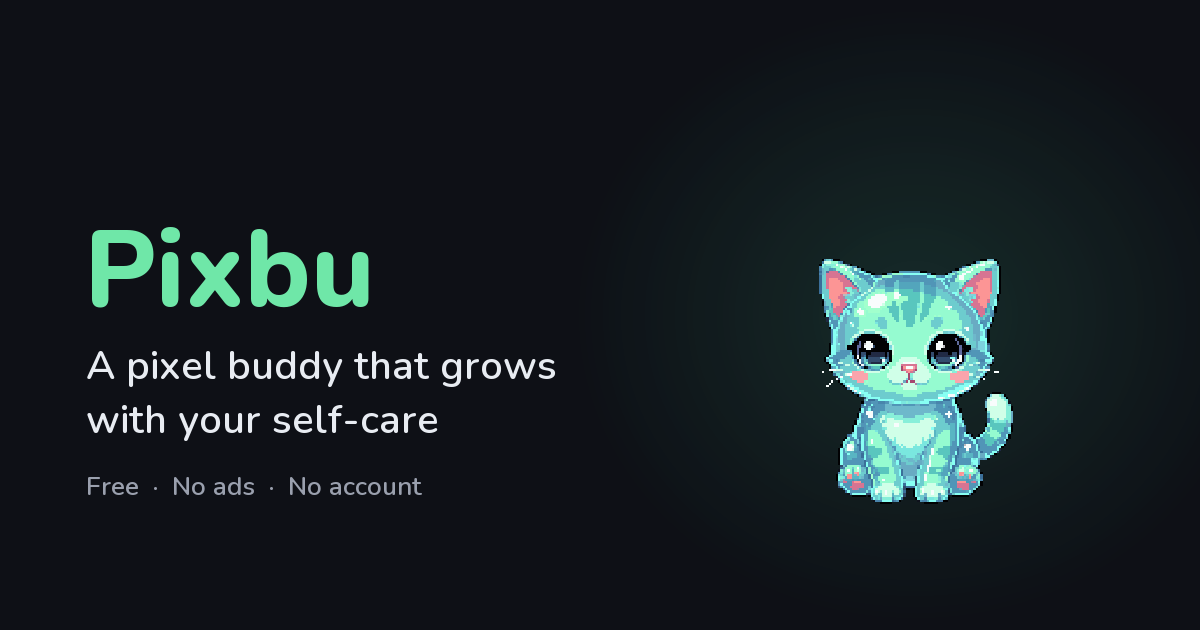
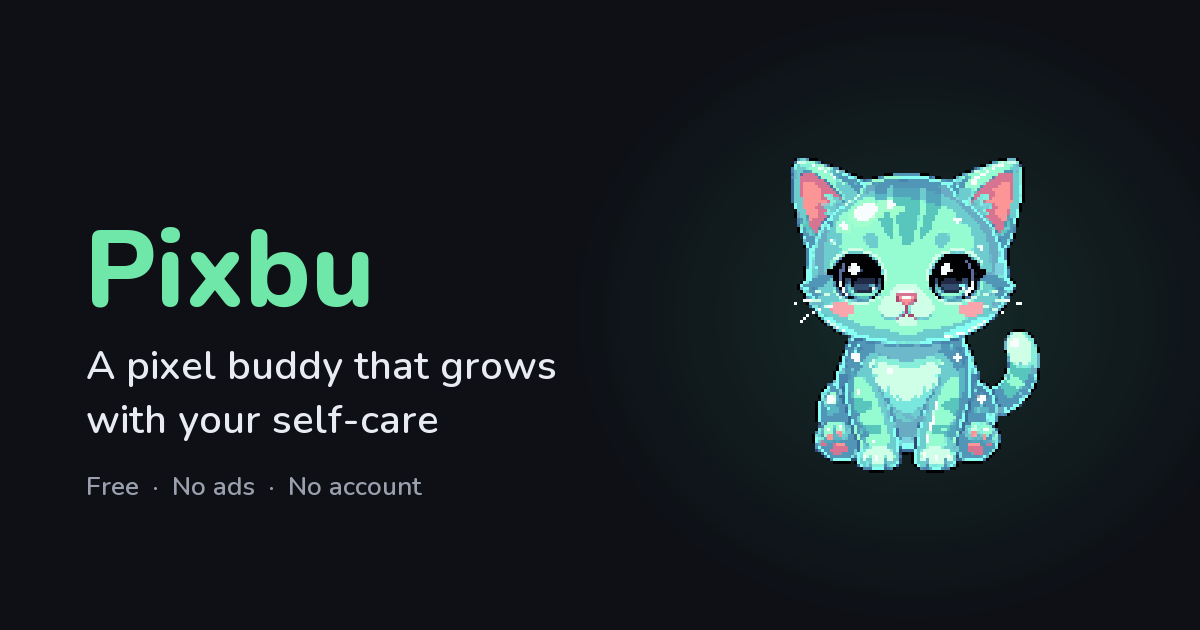
pixbu: 11 Eyl'de hazirlanan dort duzeltme CANLIYA alindi
Bu dort duzeltme 11 Eyl'de kaynak kopyada (enessevinc25/pixbu -> site/pixbu/)
yapilmis ama canliya tasinamamisti -- "site deposu erisimi yok" diye. O iddia
hic olculmemis: ayni GitHub jetonu bu depoda da push=True admin=True veriyor.

1) index.html -- .demo kuralina height:auto
   Demo videosu telefonda ~530 px siyah bosluk aciyordu (yukseklik
   belirtilmediginde tarayici kendi oranini koyuyor).

2) privacy.html + terms.html -- "son guncelleme" damgasi kendi sozunu
   tutmuyordu. Damga son ESASLI degisikligi gostermeli; gizlilik 18 Agu,
   sartlar 26 Tem diyordu, oysa son esasli degisiklik 26 Agu 2026
   (a66068362, uygulama-ici tam silme beyani). Alti dilde duzeltildi.

3) AYNI DOSYALARDA IKI AD HATASI -- uygulamanin ARB'sinden okunarak:
   · fr: "Parametres" -> "Reglages"  (app_fr.arb settingsTitle;
     uygulamada "Parametres" diye bir ekran YOK)
   · es: "Exportar copia de seguridad" -> "Exportar copia"
     (app_es.arb exportTitle)
   Kural: kullaniciya gorunen her yerde ekran/dugme adi ARB'den OKUNUR,
   cevrilmez. Bekci: app/test/hukuki_sayfa_ad_bekcisi_test.dart

4) img/og.png -- paylasim kartindaki yaratik kirpmasi
   Banner'da bulunan ayni kusur: sprite'in tum tuvali olcekleniyordu,
   kedi tuvalin %45x%57'sini dolduruyor. Kutu 194x243 -> 249x312 ve
   merkez halesiyle hizalandi (y 380 -> 313). Gozle dogrulandi.

YON DOGRULANDI: dort kaynak dosyanin dordu de 11 Eyl tarihli, canlidakiler
9-10 Eyl -- yani geriletme degil ilerletme. Canlida olup kaynakta olmayan
[…]

Changed region(s): [[0.6475, 0.2413, 0.8633, 0.8143]]

diff --git a/pixbu/terms.html b/pixbu/terms.html
@@ -1,3 +1,4 @@
+<!-- ⚠ 11 Eyl 2026: "son güncelleme" damgası düzeltildi. Damga son ESASLI değişikliği gösterir: 26 Ağu 2026 (commit a66068362 — politika uygulama-içi silmeyi beyan etmeye başladı). privacy.html 18 Ağu, terms.html 26 TEM diyordu; ikisi de o değişiklikten ÖNCEYDİ. terms.html üstelik kendi metninde "son güncelleme tarihi değişir" diye söz veriyor. 11 Eyl'deki dokunuş yalnızca EKRAN ADI düzeltmesiydi (Paramètres→Réglages, Exportar copia de seguridad→Exportar copia) — şartlarda değişiklik değil, o yüzden tarih bugüne ÇEKİLMEDİ. -->
 <!DOCTYPE html>
 <html lang="tr">
 <head>
@@ -43,7 +44,7 @@
 <section class="lang" data-lang="tr" data-title="Pixbu — Kullanım Şartları">
 
 <h1>Pixbu — Kullanım Şartları</h1>
-<p class="muted">Son güncelleme: 26 Temmuz 2026 · Geliştirici: Enes Sevinç · İletişim: enessevinc25@gmail.com</p>
+<p class="muted">Son güncelleme: 26 Ağustos 2026 · Geliştirici: Enes Sevinç · İletişim: enessevinc25@gmail.com</p>
 
 <div class="card">
 <p><strong>Kısa özet:</strong> Pixbu, öz-bakım alışkanlıklarını piksel bir dostla desteklemeni sağlayan bir uygulamadır.
@@ -124,7 +125,7 @@ ve gerekiyorsa uygulama içinde bilgilendirme yapılır. Değişiklikten sonra u
 <section class="lang" data-lang="en" data-title="Pixbu — Terms of Use">
 
 <h1>Pixbu — Terms of Use</h1>
-<p class="muted">Last updated: 26 July 2026 · Developer: Enes Sevinç · Contact: enessevinc25@gmail.com</p>
+<p class="muted">Last updated: 26 August 2026 · Developer: Enes Sevinç · Contact: enessevinc25@gmail.com</p>
 
 <div class="card">
 <p><strong>In short:</strong> Pixbu helps you build self-care habits with a pixel buddy.
@@ -203,7 +204,7 @@ where appropriate, we will notify you in the app. Continuing to use the app afte
 <section class="lang" data-lang="es" data-title="Pixbu — Términos de Uso">
 
 <h1>Pixbu — Términos de Uso</h1>
-<p class="muted">Última actualización: 26 de julio de 2026 · Desarrollador: Enes Sevinç · Contacto: enessevinc25@gmail.com</p>
+<p class="muted">Última actualización: 26 de agosto de 2026 · Desarrollador: Enes Sevinç · Contacto: enessevinc25@gmail.com</p>
 <p class="muted"><em>Esta traducción se ofrece a título informativo; en caso de discrepancia prevalece la versión en inglés.</em></p>
 
 <div class="card">
@@ -257,7 +258,7 @@ El contenido que <em>tú</em> introduces (nombre del amigo, tareas, notas) te pe
 
 <h2>8. Datos y copias de seguridad</h2>
 <p>Tus datos viven en tu dispositivo. Si pierdes el dispositivo, desinstalas la app o no tienes copia de seguridad, tu progreso podría no
-ser recuperable. Te recomendamos usar "Exportar copia de seguridad" en Ajustes.
+ser recuperable. Te recomendamos usar "Exportar copia" en Ajustes.
 Consulta nuestra <a href="privacy.html?lang=es">Política de Privacidad</a> para saber cómo se tratan los datos personales.</p>
 
 <h2>9. Disponibilidad</h2>
@@ -283,7 +284,7 @@ cuando proceda, te lo notificaremos en la app. Continuar usando la app tras un c
 <section class="lang" data-lang="pt" data-title="Pixbu — Termos de Uso">
 
 <h1>Pixbu — Termos de Uso</h1>
-<p class="muted">Última atualização: 26 de julho de 2026 · Desenvolvedor: Enes Sevinç · Contato: enessevinc25@gmail.com</p>
+<p class="muted">Última atualização: 26 de agosto de 2026 · Desenvolvedor: Enes Sevinç · Contato: enessevinc25@gmail.com</p>
 <p class="muted"><em>Esta tradução é fornecida a título informativo; em caso de divergência, prevalece a versão em inglês.</em></p>
 
 <div class="card">
@@ -363,7 +364,7 @@ quando apropriado, avisaremos você no app. Continuar usando o app após uma alt
 <section class="lang" data-lang="de" data-title="Pixbu — Nutzungsbedingungen">
 
 <h1>Pixbu — Nutzungsbedingungen</h1>
-<p class="muted">Zuletzt aktualisiert: 26. Juli 2026 · Entwickler: Enes Sevinç · Kontakt: enessevinc25@gmail.com</p>
+<p class="muted">Zuletzt aktualisiert: 26. August 2026 · Entwickler: Enes Sevinç · Kontakt: enessevinc25@gmail.com</p>
 <p class="muted"><em>Diese Übersetzung dient nur zur Information; bei Abweichungen gilt die englische Fassung.</em></p>
 
 <div class="card">
@@ -443,7 +444,7 @@ und wo angebracht informieren wir dich in der App. Wenn du die App nach einer Ä
 <section class="lang" data-lang="fr" data-title="Pixbu — Conditions d'Utilisation">
 
 <h1>Pixbu — Conditions d'Utilisation</h1>
-<p class="muted">Dernière mise à jour : 26 juillet 2026 · Développeur : Enes Sevinç · Contact : enessevinc25@gmail.com</p>
+<p class="muted">Dernière mise à jour : 26 août 2026 · Développeur : Enes Sevinç · Contact : enessevinc25@gmail.com</p>
 <p class="muted"><em>Cette traduction est fournie à titre informatif ; en cas de divergence, la version anglaise prévaut.</em></p>
 
 <div class="card">
@@ -497,7 +498,7 @@ Le contenu que <em>tu</em> saisis (nom du copain, tâches, notes) t'appartient e
 
 <h2>8. Données et sauvegardes</h2>
 <p>Tes données vivent sur ton appareil. Si tu perds ton appareil, désinstalles l'app ou n'as pas de sauvegarde, ta progression pourrait ne pas
-être récupérable. Nous te recommandons d'utiliser « Exporter la sauvegarde » dans les Paramètres.
+être récupérable. Nous te recommandons d'utiliser « Exporter la sauvegarde » dans les Réglages.
 Consulte notre <a href="privacy.html?lang=fr">Politique de Confidentialité</a> pour savoir comment les données personnelles sont traitées.</p>
 
 <h2>9. Disponibilité</h2>

diff --git a/pixbu/index.html b/pixbu/index.html
@@ -39,7 +39,7 @@ border-radius:999px;padding:6px 14px;font-size:.85rem;cursor:pointer;font-family
 .storebtn{display:inline-block;background:var(--mint);color:#0E1016;text-decoration:none;font-weight:700;padding:13px 22px;border-radius:12px;border:1px solid var(--mint);transition:transform .12s ease}
 .storebtn:hover{transform:translateY(-2px)}
 .storebtn.alt{background:transparent;color:var(--mint)}
-.demo{display:block;width:100%;max-width:760px;margin:30px auto 0;border-radius:16px;border:1px solid var(--line);background:#000}
+.demo{display:block;width:100%;height:auto;max-width:760px;margin:30px auto 0;border-radius:16px;border:1px solid var(--line);background:#000}
 .badge{display:inline-block;background:var(--card);border:1px solid var(--mint);
 color:var(--mint);border-radius:999px;padding:12px 26px;font-weight:600}
 .badge.sub{display:block;background:none;border:none;color:var(--muted);font-weight:400;
